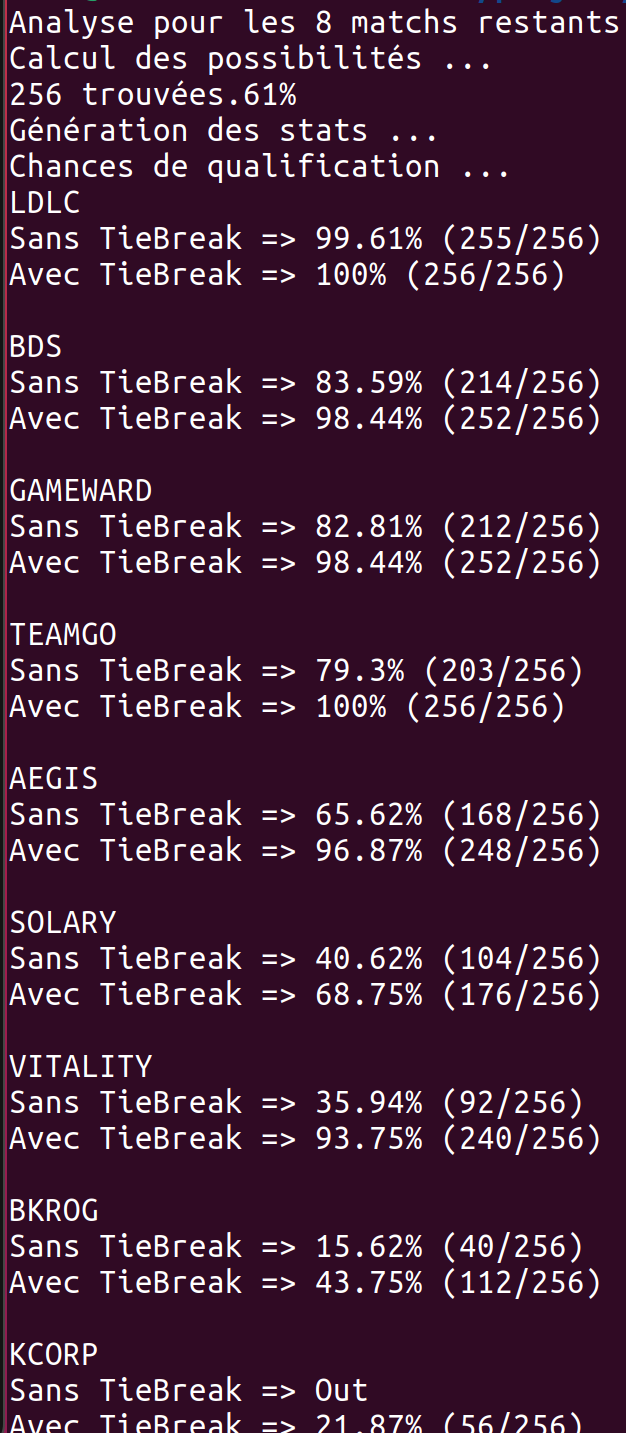
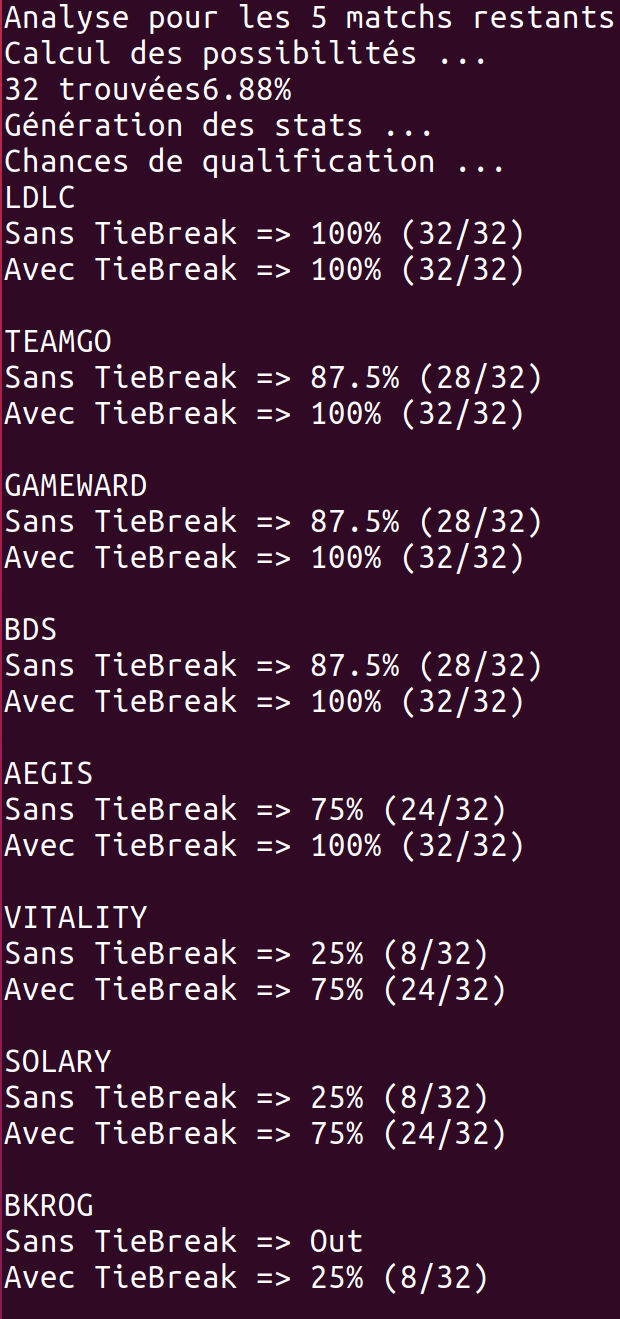
update results

Changed region(s): [[0.0, 0.0, 0.9806, 1.0], [0.7661, 0.0, 1.0, 0.0311]]

diff --git a/run.php b/run.php
@@ -5,10 +5,10 @@ $teams = [
     "LDLC" => 11,
     "TEAMGO" => 10,
     "VITALITY" => 9,
-    "AEGIS" => 9,
-    "GAMEWARD" => 9,
-    "BDS" => 9,
-    "SOLARY" => 8,
+    "AEGIS" => 10,
+    "GAMEWARD" => 10,
+    "BDS" => 10,
+    "SOLARY" => 9,
     "BKROG" => 8,
     "KCORP" => 7,
     "IZIDREAM" => 2,
@@ -16,9 +16,6 @@ $teams = [
 
 
 $matchs = [
-    ["KCORP" => "AEGIS"],
-    ["SOLARY" => "TEAMGO"],
-    ["BDS" => "GAMEWARD"],
     ["IZIDREAM" => "GAMEWARD"],
     ["AEGIS" => "VITALITY"],
     ["KCORP" => "TEAMGO"],
@@ -65,7 +62,7 @@ for ($i = 0; $i < pow(2, \count($matchs)); $i++) {
     }
 
     $lengthNoTie = $qualified;
-    for ($k = $lengthNoTie + 1; $k > 1; $k--){
+    for ($k = $lengthNoTie; $k >= 1; $k--){
         $points = array_values($probability);
         if ($points[$k] !== $points[$k - 1]) {
             break;
